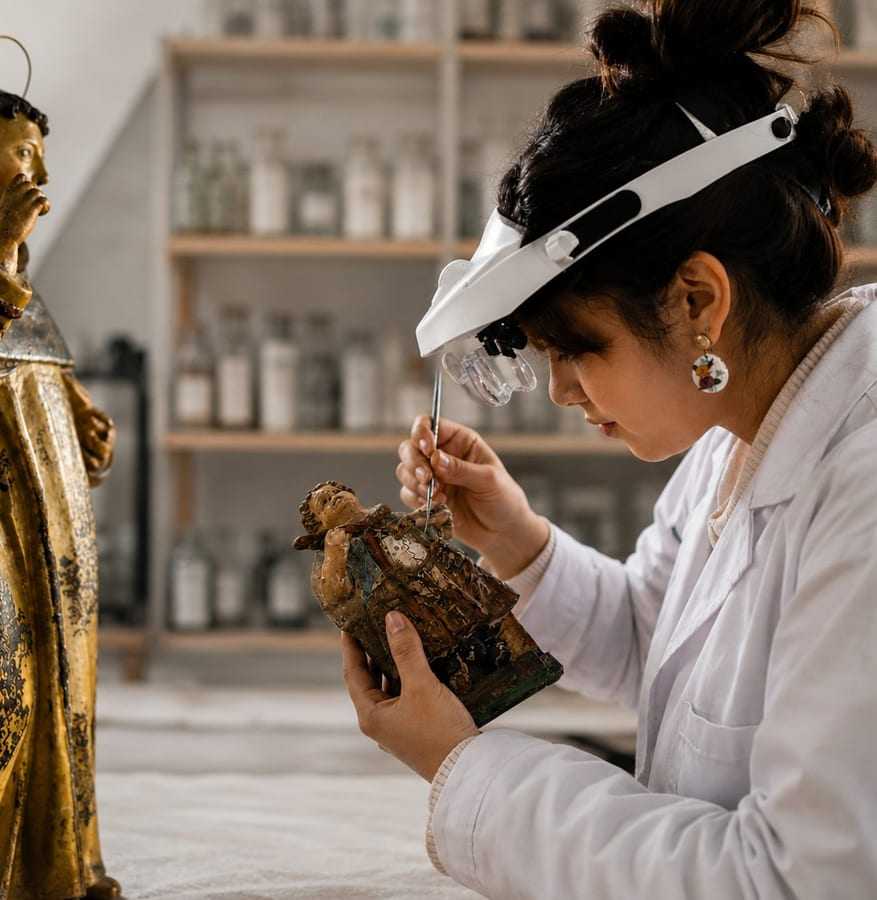
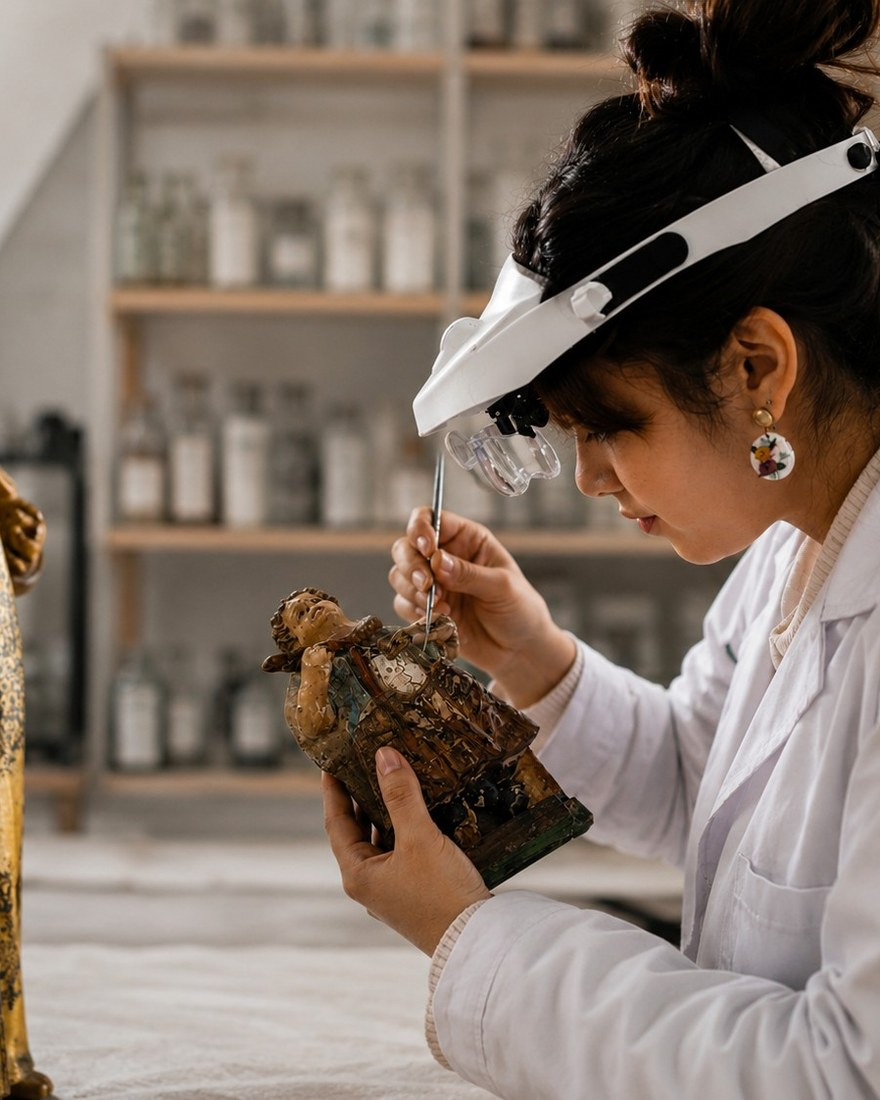
fix(interv): rebuild escultura sepia from color so hover only crossfades
Root cause was not just dimensions: the two originals were different
crops of the scene (sepia framed tighter), so matching sizes still
left the figure "jumping" on hover. Replaced both escultura icons with
new files regenerated from the color image — same 880x1100 (4:5) crop,
pixel-for-pixel identical framing, sepia being a pure desaturation.

Card now behaves exactly like the other three: sepia at rest, color on
hover, no movement or reframing. HTML width/height updated to 880x1100.

diff --git a/index.html b/index.html
@@ -528,8 +528,8 @@
       <span class="folder__t" data-i18n="interv.t1">Pintura sobre Lienzo y Madera</span>
     </button>
     <button class="folder" type="button" data-folder="escultura" data-i18n-attr="aria-label:interv.t2" aria-label="Escultura Policromada">
-      <img class="folder__icon folder__icon--rest" src="assets/img/intervenciones/iconos/icon-escultura-sepia.jpg" width="900" height="893" loading="lazy" decoding="async" alt="">
-      <img class="folder__icon folder__icon--hover" src="assets/img/intervenciones/iconos/icon-escultura-color.jpg" width="877" height="900" loading="lazy" decoding="async" alt="">
+      <img class="folder__icon folder__icon--rest" src="assets/img/intervenciones/iconos/icon-escultura-sepia.jpg" width="880" height="1100" loading="lazy" decoding="async" alt="">
+      <img class="folder__icon folder__icon--hover" src="assets/img/intervenciones/iconos/icon-escultura-color.jpg" width="880" height="1100" loading="lazy" decoding="async" alt="">
       <span class="folder__cue" aria-hidden="true">&#8599;</span>
       <span class="folder__t" data-i18n="interv.t2">Escultura Policromada</span>
     </button>
